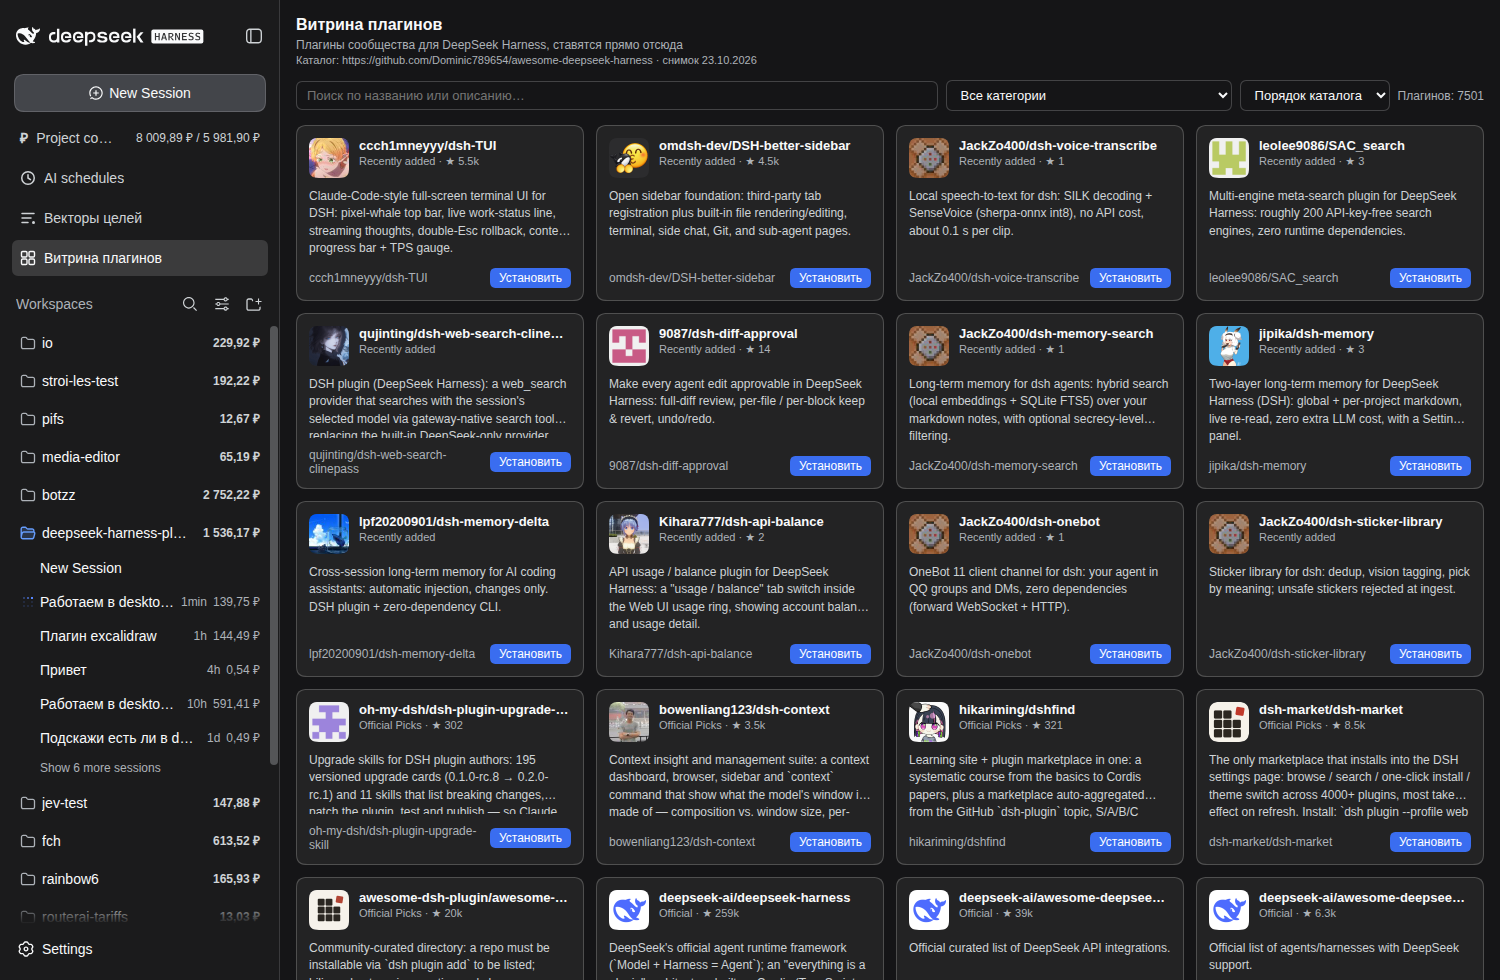
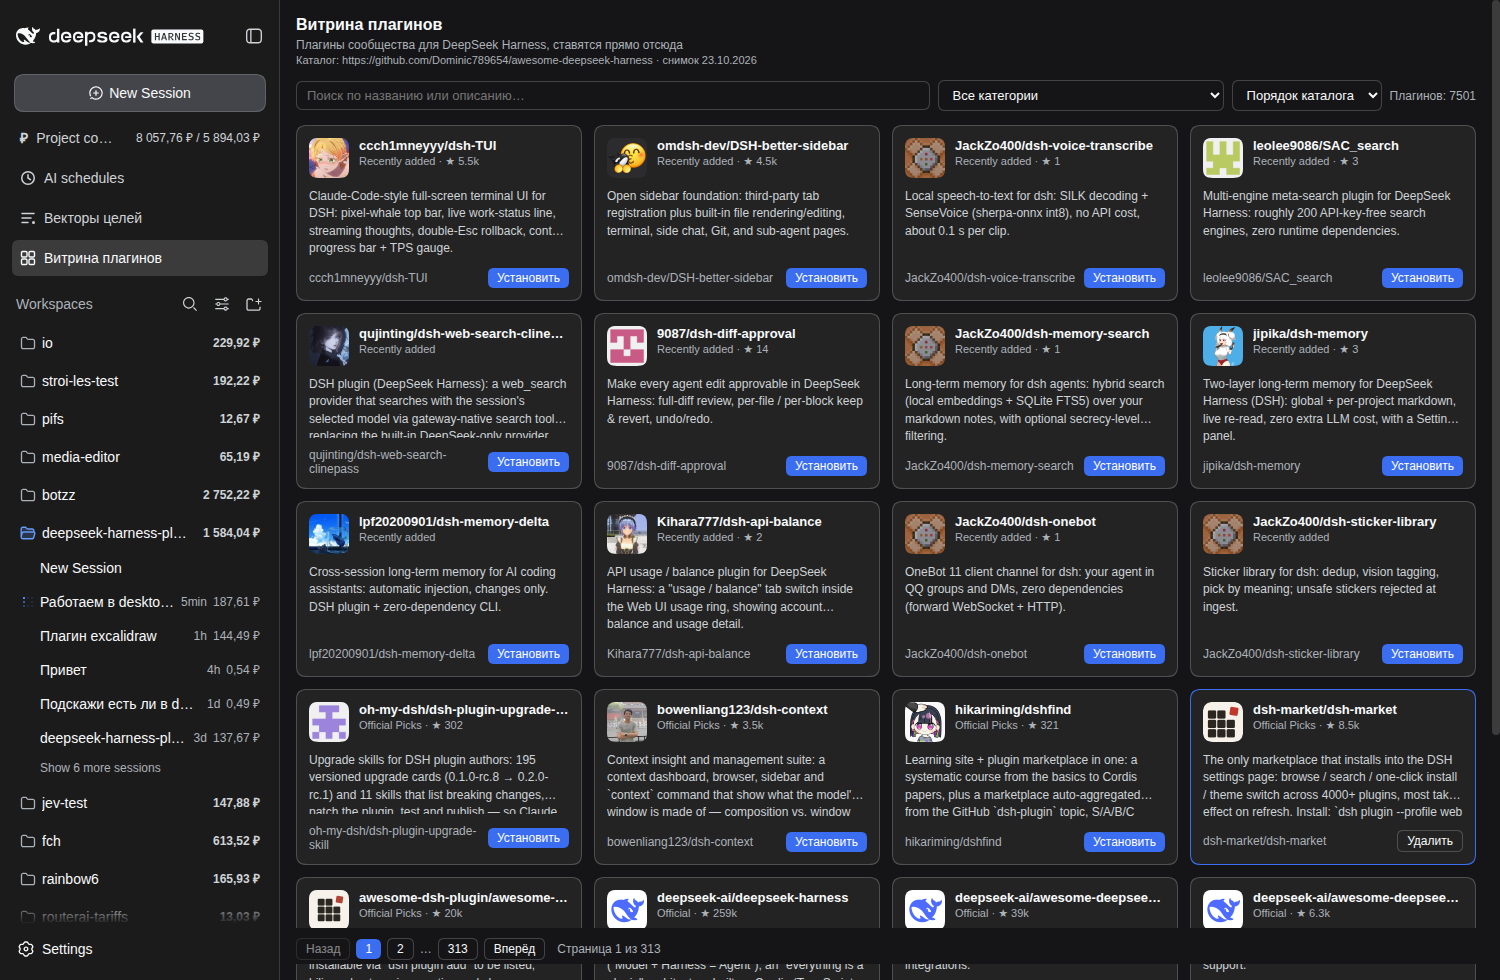
dsh-plugin-showcase: the page scrolls, and pagination stays in view
The panel sits in a column with overflow: hidden, so 24 cards pushed the
pagination row past the bottom edge: the page said "1 of 313" while the only
way to page was a scroll that did not exist. The panel now scrolls itself and
the pagination row is sticky at its bottom edge, so it is visible without
scrolling and stays there while the cards move.

Checked with a real mouse click on "2": the page reports "2 of 313" and the
first card changes.

diff --git a/dsh-plugin-showcase/lib/client.js b/dsh-plugin-showcase/lib/client.js
@@ -463,7 +463,19 @@ window.__ModuleLoader__.load({
 
 			return el(
 				"div",
-				{ style: { padding: "16px", display: "flex", flexDirection: "column", gap: "14px" } },
+				{
+					style: {
+						// Панель живёт в колонке с overflow: hidden, поэтому прокручиваемся
+						// сами: иначе 24 карточки выносят пагинацию за нижний край.
+						boxSizing: "border-box",
+						height: "100%",
+						overflowY: "auto",
+						padding: "16px",
+						display: "flex",
+						flexDirection: "column",
+						gap: "14px"
+					}
+				},
 				el(
 					"div",
 					null,
@@ -548,7 +560,22 @@ window.__ModuleLoader__.load({
 						),
 				el(
 					"div",
-					{ style: { display: "flex", gap: "6px", alignItems: "center", flexWrap: "wrap" } },
+					{
+						style: {
+							// Пагинация закреплена у нижнего края прокручиваемой панели:
+							// иначе при 24 карточках она всегда за кадром и «страниц не видно».
+							position: "sticky",
+							bottom: 0,
+							zIndex: 1,
+							marginTop: "auto",
+							padding: "10px 0 4px",
+							background: "var(--dsw-alias-bg-base, var(--dsw-alias-bg-layer-1, #fff))",
+							display: "flex",
+							gap: "6px",
+							alignItems: "center",
+							flexWrap: "wrap"
+						}
+					},
 					button(t("panel.prev"), () => setPage((current) => Math.max(1, current - 1)), {
 						compact: true,
 						disabled: state.page <= 1
